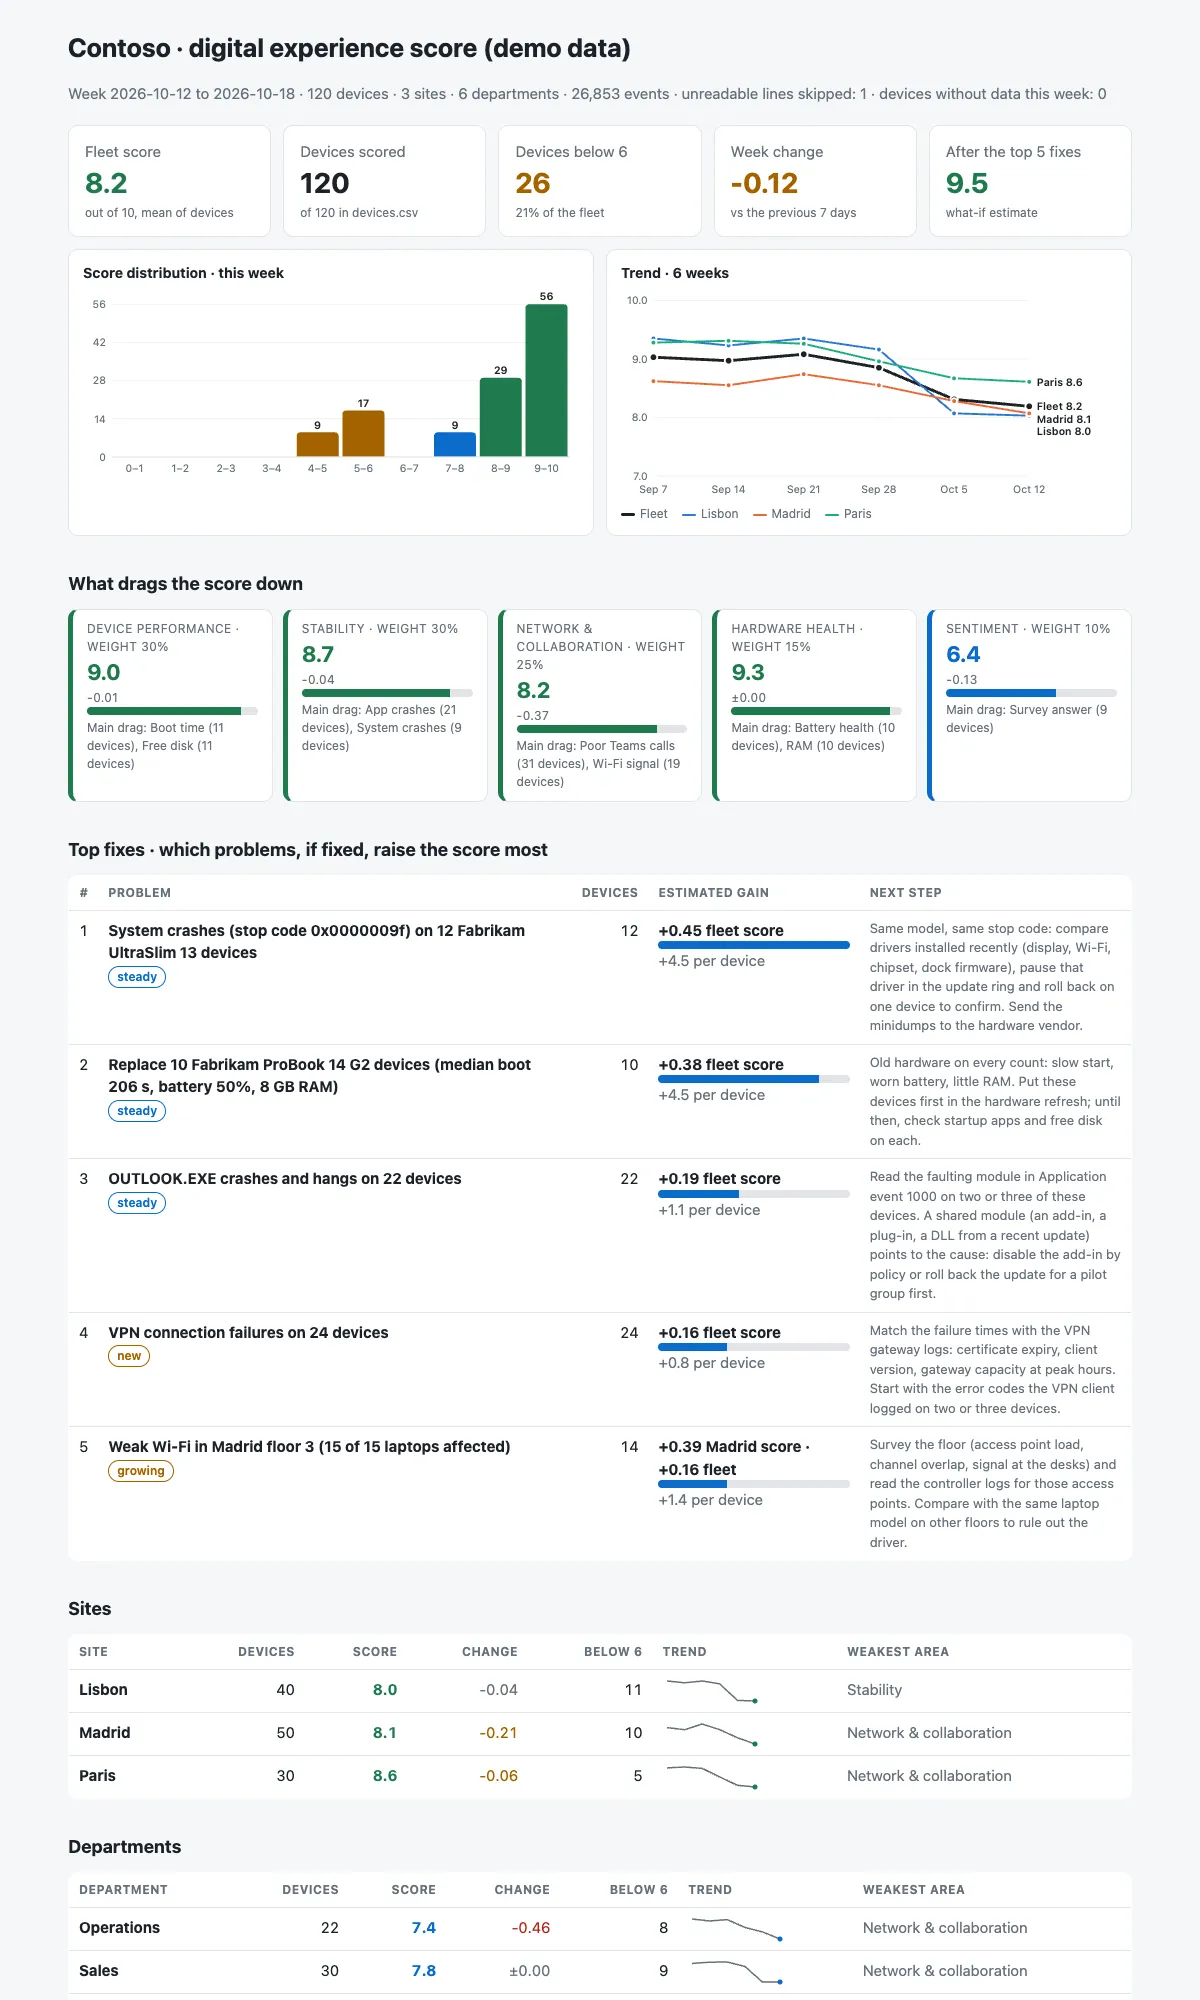
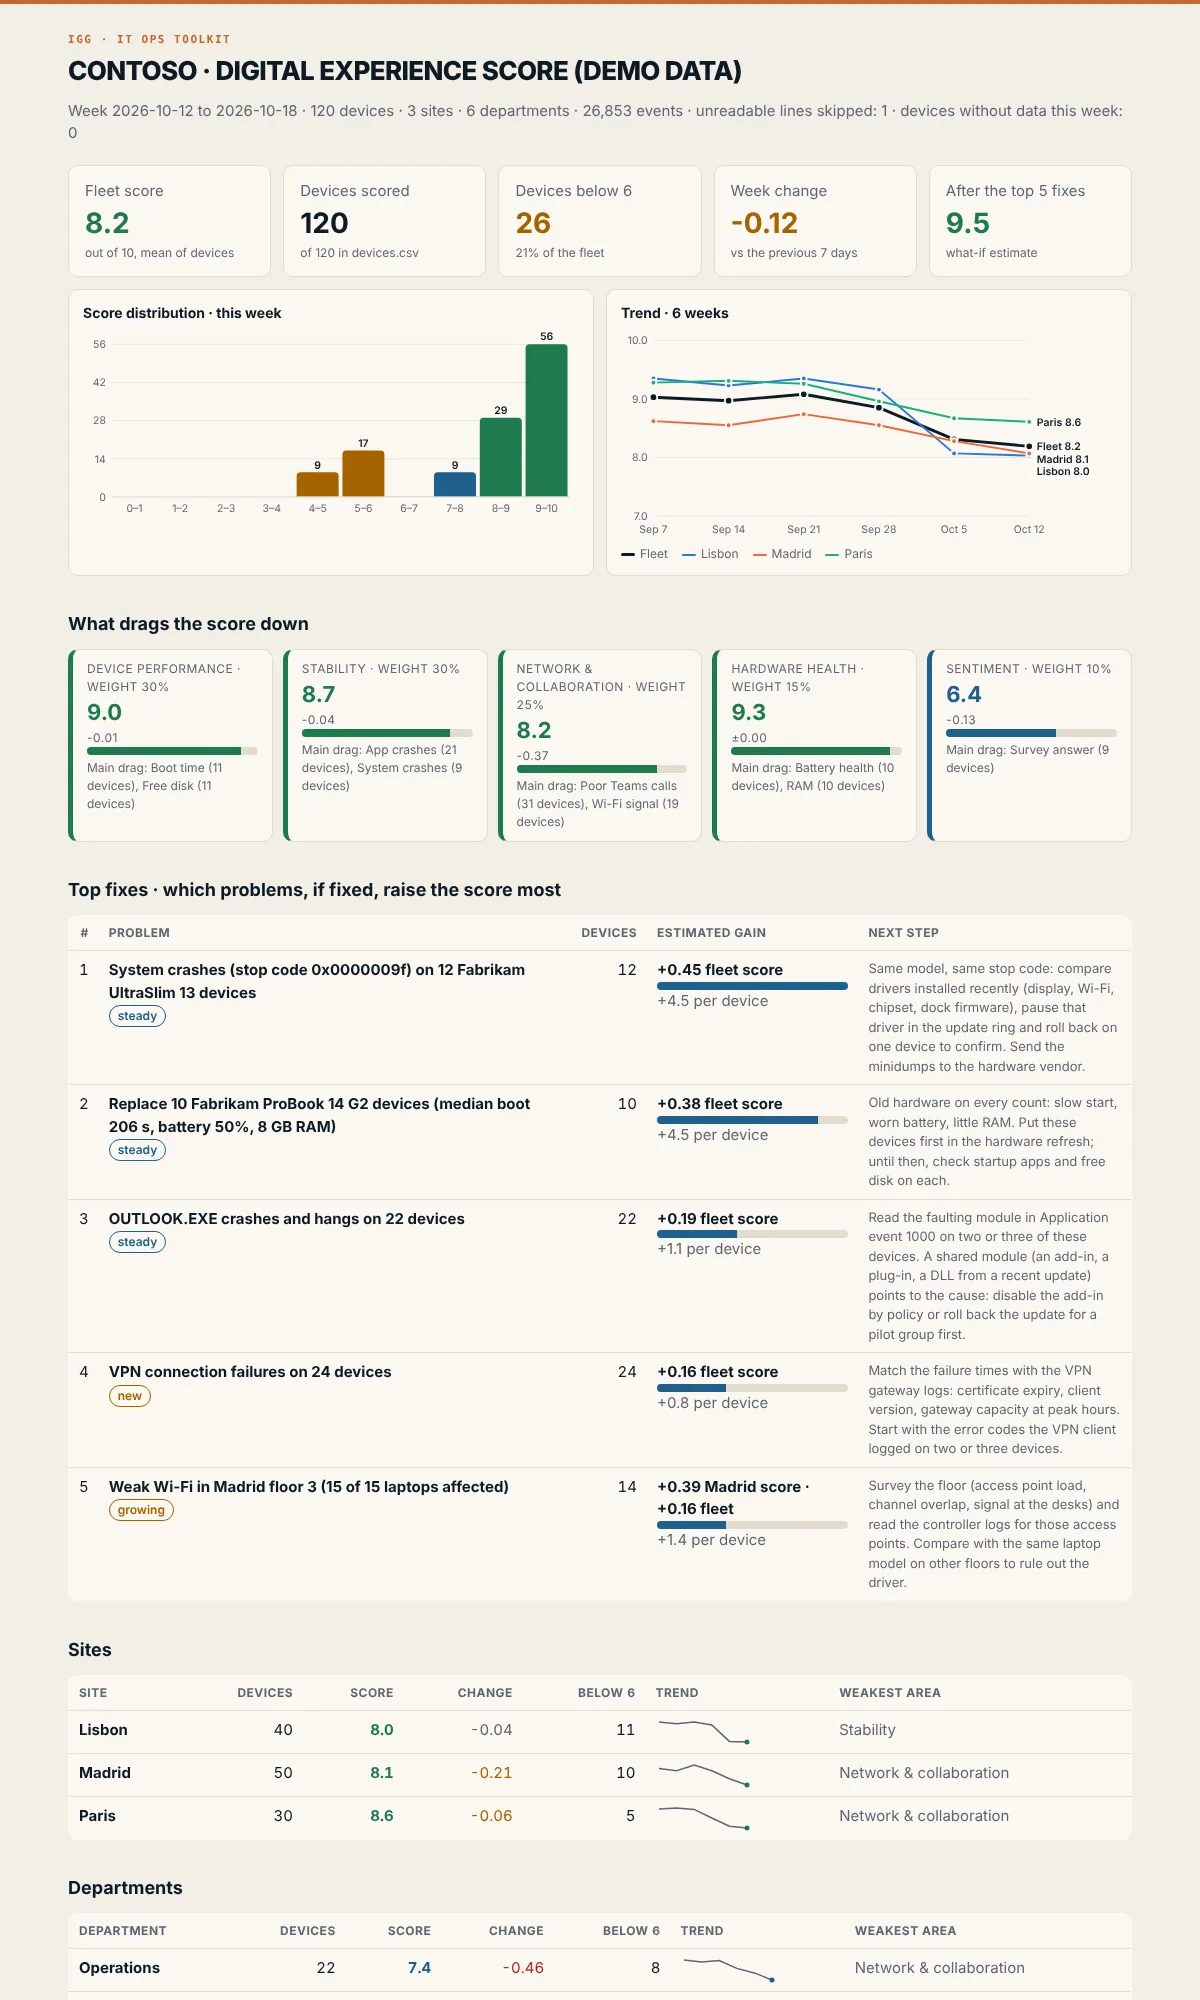
Report: IGG colours (paper, ink and the orange accent) and a new screenshot

diff --git a/dexscore/report.py b/dexscore/report.py
@@ -136,11 +136,11 @@ def review_md(sc: Scores, fixes: list[ins.Fix], title: str) -> str:
 
 # HTML -----------------------------------------------------------------------------------------------------------
 CSS = """
-:root{--bg:#f6f7f8;--card:#fff;--ink:#1b2128;--muted:#66717c;--line:#e2e5e9;--grid:#eef0f2;--ok:#1e7a4c;--warn:#a46200;--bad:#b42318;--info:#0b6bcb;
+:root{--bg:#f2eee6;--card:#fbf8f3;--ink:#0e1a24;--muted:#5d6670;--line:#e2dccf;--grid:#ebe5da;--ok:#1e7a4c;--warn:#a46200;--bad:#b42318;--info:#1f5f8b;
 --s1:#2a78d6;--s2:#eb6834;--s3:#1baf7a}
-@media (prefers-color-scheme:dark){:root{--bg:#13171b;--card:#1b2127;--ink:#e7eaee;--muted:#9aa5b0;--line:#2b333b;--grid:#232a31;--ok:#4cc38a;--warn:#f0a83a;--bad:#f2685c;--info:#5aa9f0;
+@media (prefers-color-scheme:dark){:root{--bg:#0e1a24;--card:#142331;--ink:#f2eee6;--muted:#a9b3bb;--line:#24364a;--grid:#1b2b3b;--ok:#4cc38a;--warn:#f0a83a;--bad:#f2685c;--info:#5aa9f0;
 --s1:#3987e5;--s2:#d95926;--s3:#199e70}}
-*{box-sizing:border-box}body{margin:0;background:var(--bg);color:var(--ink);font:15px/1.5 system-ui,-apple-system,Segoe UI,sans-serif}
+*{box-sizing:border-box}body{border-top:4px solid #c4672b}h1{font-weight:800;letter-spacing:-.025em;text-transform:uppercase;line-height:1.05}h1::before{content:"IGG · IT Ops toolkit";display:block;font:600 11px/1.4 ui-monospace,SFMono-Regular,Menlo,monospace;letter-spacing:.14em;text-transform:uppercase;color:#c4672b;margin-bottom:10px}body{margin:0;background:var(--bg);color:var(--ink);font:15px/1.5 system-ui,-apple-system,Segoe UI,sans-serif}
 main{max-width:1100px;margin:0 auto;padding:28px 18px 60px}h1{font-size:26px;margin:0 0 4px}h2{font-size:18px;margin:34px 0 12px}
 .muted{color:var(--muted)}.tiles{display:grid;grid-template-columns:repeat(auto-fit,minmax(160px,1fr));gap:12px;margin-top:20px}
 .tile{background:var(--card);border:1px solid var(--line);border-radius:10px;padding:14px 16px}.tile b{display:block;font-size:28px}
